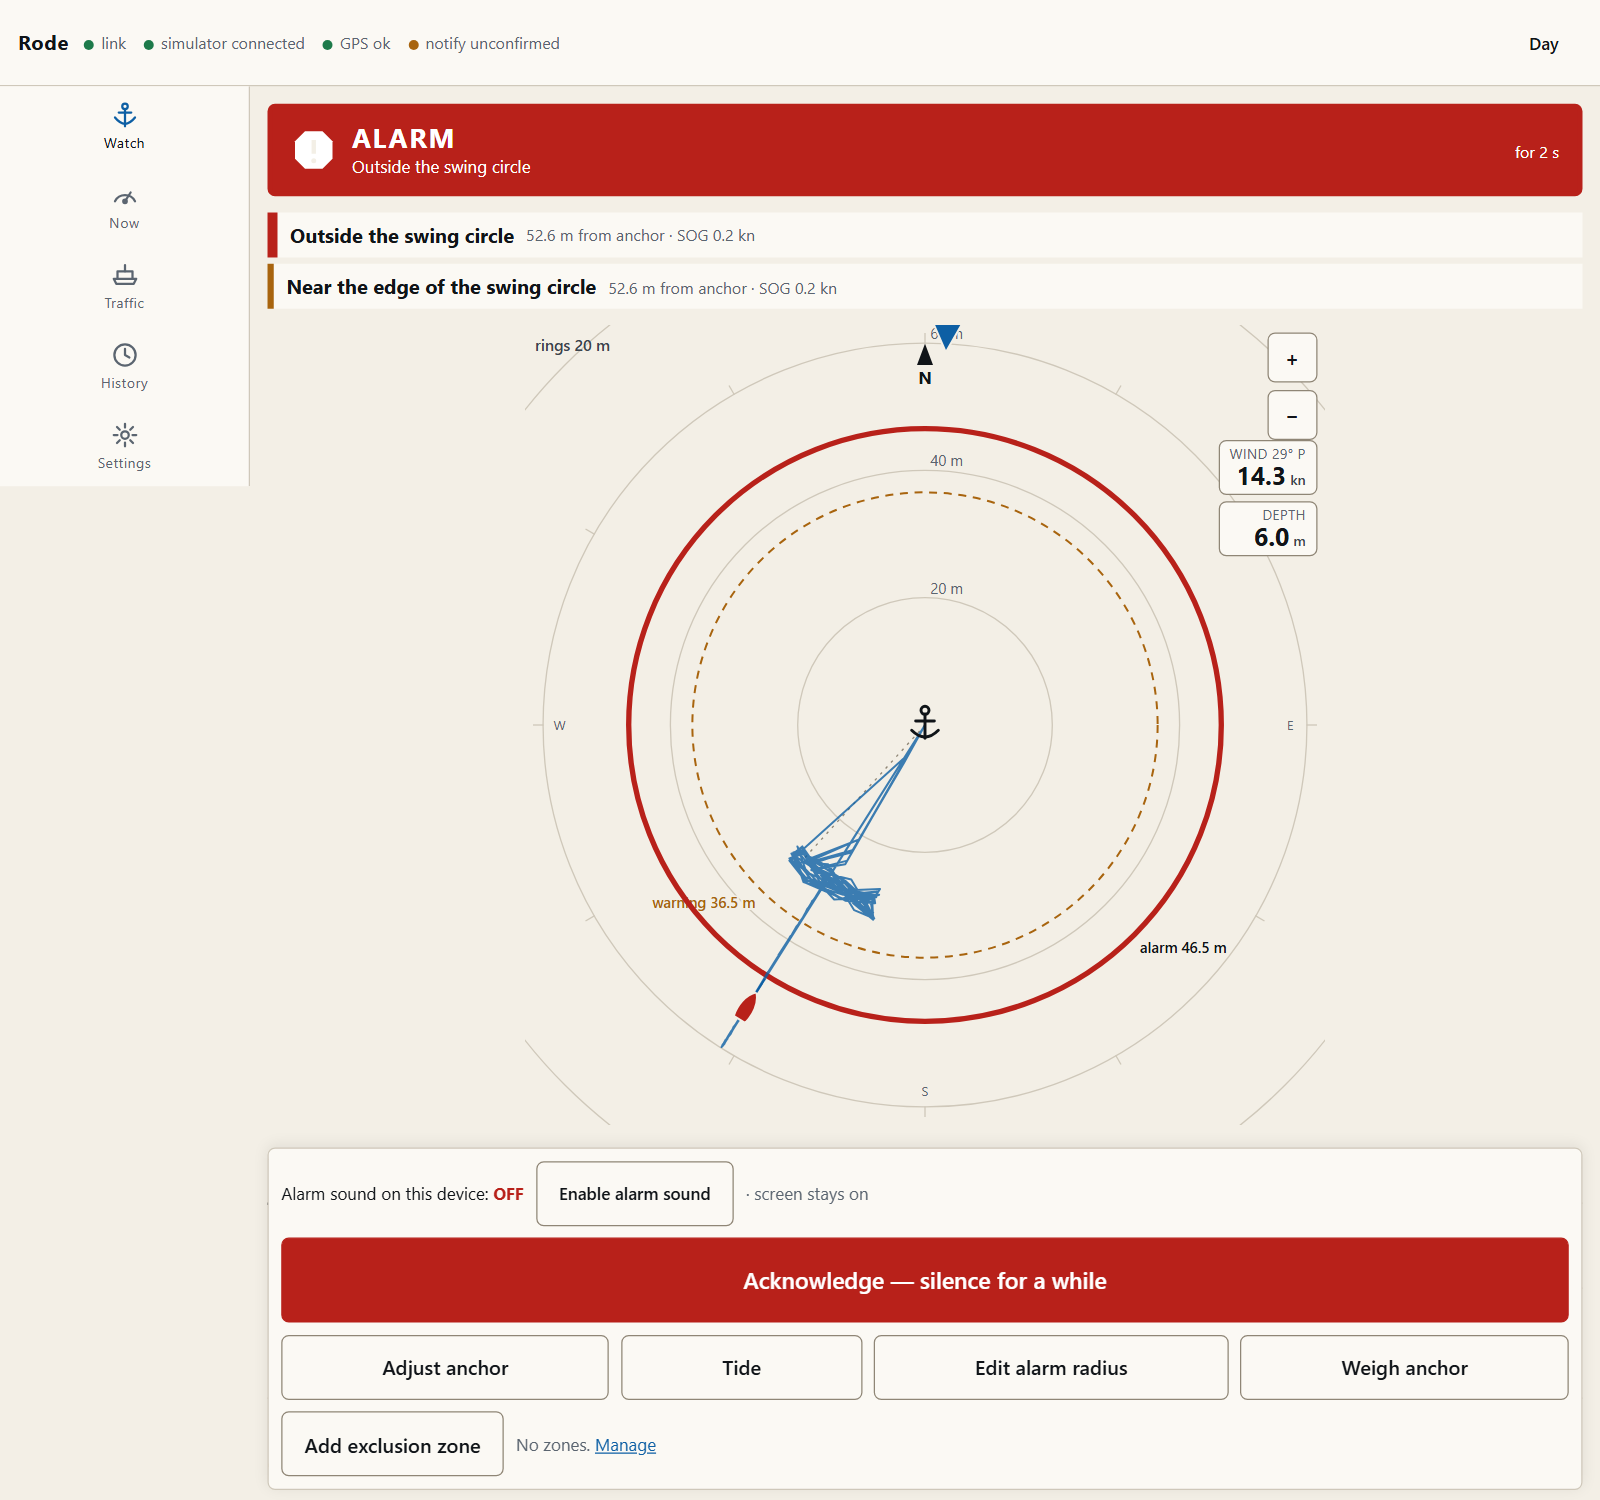
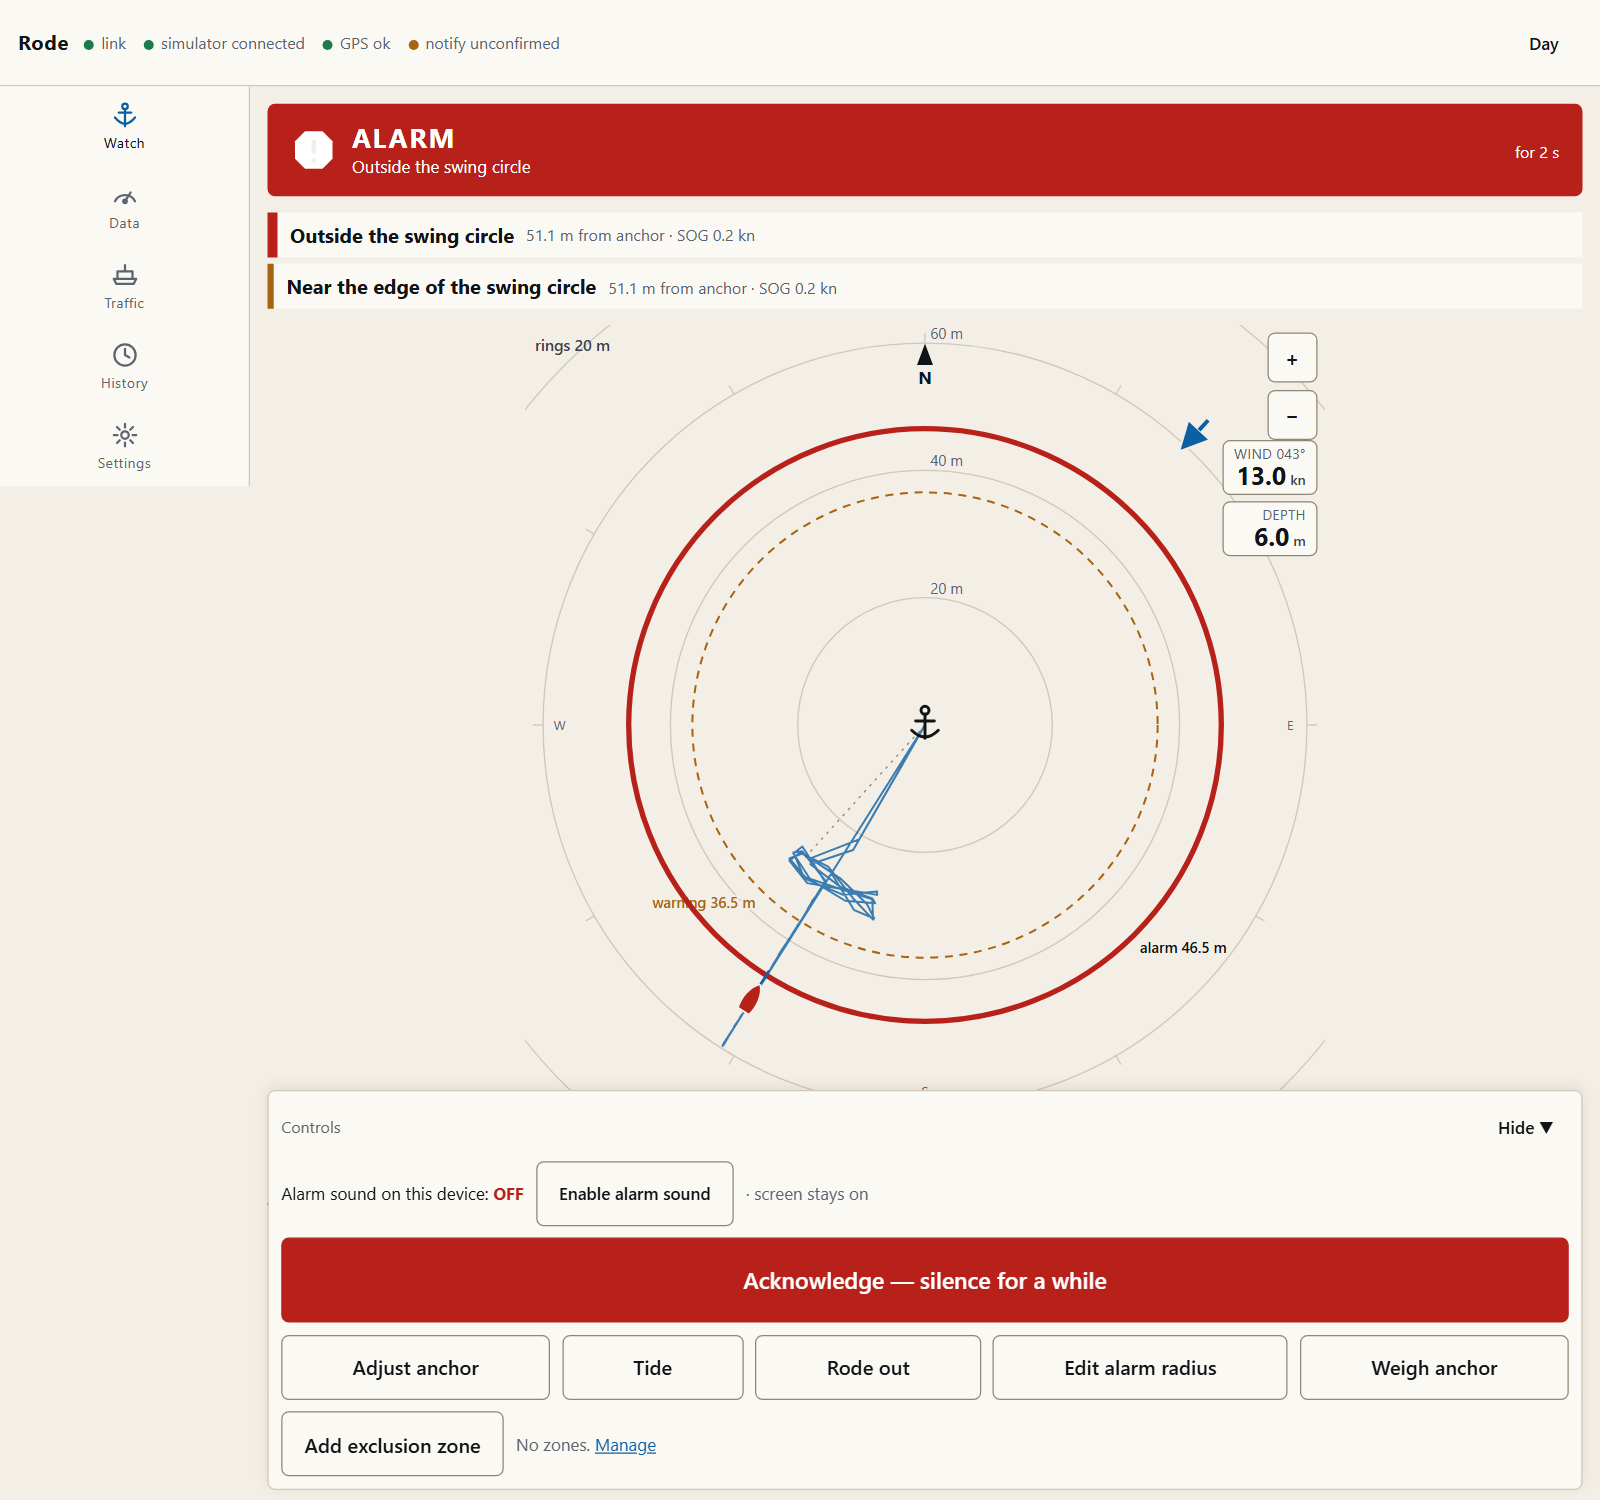
docs: v0.3 changelog, decisions 12.x, README and screenshots

diff --git a/README.md b/README.md
@@ -23,7 +23,7 @@ failures.
 </p>
 
 <p align="center">
-  <img src="docs/screenshots/traffic-laptop.png" width="800" alt="Traffic screen: AIS targets over Esri satellite imagery of the anchorage, fitted to show every vessel, with range, CPA and TCPA in a table">
+  <img src="docs/screenshots/traffic-laptop.png" width="800" alt="Traffic screen: AIS targets in red over Esri satellite imagery of the anchorage, one vessel's hour of track in orange, with range, CPA, TCPA and a Track button per vessel in the table">
 </p>
 
 <sub>Screenshots are from the built-in simulator (a Bermuda anchorage), not a real boat. The imagery is real.</sub>
@@ -33,15 +33,16 @@ failures.
 - **Anchor watch.** Drop → back down → Set. The swing circle is computed
   from where the anchor went down and where the boat lay after backing
   down, corrected for the GPS antenna's offset from the bow roller, with the
-  depth captured once at drop so the sounder can go off overnight. Three
-  independent early-warning detectors (position near the edge, wind off the
-  bow, sustained speed) with field-tested thresholds and hysteresis, a
-  break-out rule that escalates straight to critical, and first-class
-  alarms for GPS staleness and data-source loss.
-- **Marina mode.** One tap when you leave the boat in a slip: tight radius,
-  wind detector off, and it watches battery, solar yield and refrigeration
-  instead, reporting every fridge/freezer band change including the one
-  into "off", so a failed freezer that drifts to ambient cannot hide.
+  depth captured once at drop so the sounder can go off overnight, or from
+  the rode you say you paid out. Early warnings for position near the edge
+  and sustained speed, with field-tested thresholds and hysteresis, and
+  first-class alarms for GPS staleness and data-source loss.
+- **Traffic.** AIS targets over satellite imagery, ranges in metres or
+  nautical miles, CPA/TCPA, an hour of track per vessel on request, and a
+  card for any target you tap. Silent for 30 minutes means gone.
+- **Data.** Every instrument the boat reports, true wind and apparent wind
+  direction computed when the instruments do not send them, and rolling
+  24-hour charts of wind, barometer, SOG and STW.
 - **Exclusion zones.** Reefs, cables, fairways; checked independently of
   the circle, with projected-entry warnings from course and speed.
 - **Notifications that prove themselves.** ntfy, Pushover, Telegram,
@@ -136,7 +137,8 @@ Also worth setting: the sounder's transducer depth below the waterline
    _this_ phone.
 5. If the anchor point looks off on the view, **Adjust anchor** lets you drag
    it; everything recomputes. Enter the expected **tide** range if it is
-   large.
+   large. If you know how much chain went out, **Rode out** enters it and the
+   circle is worked from that instead of from where the boat lay at set.
 6. Every anchor set sends a notification: "Anchor watch active — radius 72
    m, rode 41 m, scope 5.7:1". If it does not arrive, fix that before you
    sleep. That is the point of it.
@@ -156,11 +158,16 @@ boat geometry in Settings re-derives the circle of the session that is
 running; you do not have to weigh and drop again.
 
 **Add exclusion zone** opens the zone editor right there; drawing works on
-top of the imagery, so a reef you can see is a reef you can fence.
+top of the imagery, so a reef you can see is a reef you can fence. Zones
+belong to the anchorage: weighing anchor removes them.
 
-The track slider, AIS toggle, background choice and the Traffic screen's
-fit-all switch are stored on the boat, so a phone and a laptop always show
-the same thing.
+**Hide** collapses the control panel to a slim bar on a phone; the
+Acknowledge button stays visible whenever something is alarming.
+
+The track slider, AIS toggle, background choices, zoom and the Traffic
+screen's fit-all switch are stored on the boat, so a phone and a laptop
+always show the same thing. Watch and Traffic keep their own background and
+zoom.
 
 The banner shows one of: NOT WATCHING · ANCHOR DOWN · WATCHING · WARNING ·
 ALARM. Acknowledging an alarm silences audio for the snooze period; it never
@@ -255,7 +262,7 @@ make sim SCENARIO=slow-drag SPEED=60   # fake Cortex on tcp :39150
 ```
 
 `RODE_SOURCE=simulator RODE_SIM_SCENARIO=break-out RODE_SIM_AUTO_COMMANDS=1`
-runs the server against a scenario with the skipper's taps scripted. The ten
+runs the server against a scenario with the skipper's taps scripted. The nine
 scenarios (`pnpm --filter @rode/ingest sim list`) are also the integration
 tests: each replays through the real parser, normaliser and alarm engine and
 asserts on the event log.

diff --git a/docs/decisions.md b/docs/decisions.md
@@ -453,3 +453,70 @@ resolves sticky against the grid container, so on any page taller than the
 viewport the `bottom: 0` constraint dragged the rail up over the header;
 short pages were unaffected, which is why only Watch and Traffic showed it.
 The rule now resets the offsets and `align-self: start`.
+
+# 12 — Second feedback round (2026-09-13)
+
+## 12.1 — Marina mode and the wind-angle detector are gone
+
+**Context.** The owner asked for both to be removed: marina monitoring was
+not going to be used, and the wind-off-the-bow warning (and the break-out
+rule built on it) fired on nothing but a shift of wind in practice.
+
+**Decision.** Deleted rather than hidden: `marina.ts`, the MARINA phase,
+the cold-box/battery/solar conditions, `awaWindow/awaHoldMs/awaMinWindSpeed`
+and the `wind-shift`/`breakout` conditions, the marina simulator scenario.
+`rehydrateWatchState` brings older persisted state forward: a MARINA
+session is ended, stale conditions are dropped, missing fields get
+defaults. History rows keep `mode: 'marina'` for old sessions. The
+break-out scenario stays as a fixture: it now asserts the speed warning
+precedes the position alarm. Wind data itself is still read, shown and
+charted; it just does not alarm.
+
+## 12.2 — Rode entered by the skipper drives the circle
+
+`AnchorSession.rodeOverride` (metres). `computeAnchorGeometry` takes an
+optional `rodeLength`; when present the horizontal run is
+`sqrt(rode² − vertical²)` instead of the measured distance at set, and
+`rodeEntered` is echoed so the UI can say which it is. Refused when shorter
+than depth plus roller height. Tide and settings recomputes keep the
+entered value; entering null goes back to measured.
+
+## 12.3 — Partial updates must not carry defaults
+
+**Context.** "Move the track slider, then change the background, and the
+slider goes back to 6 h." In zod 4, `.partial()` on an object whose fields
+have `.default()` still applies those defaults to missing keys, so every
+PATCH body arrived on the server with all the other settings reset.
+
+**Decision.** `patchOf(schema)` in `@rode/protocol` strips defaults and
+makes each field optional; every PATCH schema (prefs, units, source, boat,
+night mode, notifications) is built with it. A regression test sends two
+disjoint patches and checks nothing was lost.
+
+## 12.4 — Watch and Traffic views are independent, and zoom is explicit
+
+The extent of the polar view is a half-width in metres. `watchRange` and
+`trafficRange` (null = automatic) and `imagerySource`/`trafficImagery` are
+separate preferences. On Watch the extent only changes when the user
+zooms or the circle changes (then it refits). On Traffic "fit all targets"
+follows the targets while on; turning it off freezes the current extent,
+and a manual zoom turns it off. Range 10 m to 100 nm; rings label in
+nautical miles past 1000 ft / 1000 m.
+
+## 12.5 — AIS tracks live on the server, expiry clears them
+
+The tracker keeps an hour of positions per target (thinned to one every
+10 s), served by `GET /api/ais/:mmsi/track`; the Traffic screen fetches
+once per tracked vessel and follows live positions from then on. A target
+silent for 30 minutes is pruned with its history. Which vessels are
+tracked is a shared preference, so both phones draw the same tracks.
+
+## 12.6 — Derived wind in the normaliser, charts bucketed on the server
+
+Apparent wind direction (heading + AWA) and true wind (apparent minus boat
+motion, `trueWind()` in core with a round-trip property test) are computed
+in `Normalizer.instruments()` when the instruments do not send them, marked
+`source: 'derived'` and stale when any input is. The Data screen's 24-hour
+charts read `/api/series/buckets`, which averages five-minute buckets in
+JavaScript so wind direction can be a circular mean; STW (VHW) and pressure
+ride in the samples' `extra` JSON column, so no migration.

diff --git a/CHANGELOG.md b/CHANGELOG.md
@@ -9,8 +9,36 @@ _Unreleased_.
 
 ## [Unreleased]
 
+### Removed
+
+- **Marina mode** (the MARINA phase, refrigeration/battery/solar monitors,
+  marina thresholds, the marina simulator scenario) and the **wind-angle
+  warning** with its break-out rule. Wind is still shown and charted, it no
+  longer alarms. Persisted state from earlier versions is brought forward on
+  boot: a marina session is ended, stale conditions dropped.
+- The Wind readout under the Watch graphic, the radius labels on the Traffic
+  graphic, and the "here" button in the zone editor.
+
 ### Added
 
+- **Rode out.** Enter the rode actually paid out; the circle is derived from
+  it (`run = sqrt(rode² − vertical²)`) instead of the measured run at set.
+  (`POST /api/anchor/rode`)
+- **Traffic:** targets drawn red; a **Track** button per vessel draws its
+  last hour in orange (server-side history, `GET /api/ais/:mmsi/track`);
+  hover or tap a target for a card with range, bearing, SOG/COG, CPA/TCPA
+  and last seen; ring labels in nautical miles past 1000 ft / 1000 m; zoom
+  from 10 m to 100 nm; targets silent for 30 minutes are dropped with their
+  track.
+- **Data screen** (renamed from Now): STW next to SOG, apparent wind
+  direction, true wind direction and speed computed when the instruments do
+  not send them, and rolling 24-hour charts of apparent wind speed and
+  direction, barometer, SOG and STW (`GET /api/series/buckets`).
+- Watch: **Hide** collapses the control panel to a slim bar (the Acknowledge
+  button stays); the weigh-anchor confirmation says how many zones it will
+  remove; a **Delete** button per zone on the zones settings page.
+- Units and display: the time zone is a searchable list of every IANA zone.
+- VHW (speed through water) parsing; the simulator emits it.
 - **Manual alarm radius.** "Edit alarm radius" on the Watch screen: drag
   either ring on the view or type both numbers. Unchecked, the warning ring
   follows the alarm ring at the configured warn distance and either field
@@ -50,6 +78,13 @@ _Unreleased_.
 
 ### Changed
 
+- Watch and Traffic are independent: each keeps its own background imagery
+  and zoom, stored as shared preferences. The Watch extent changes only when
+  you zoom or the circle changes; Traffic's "fit all targets" follows the
+  targets while on and freezes the extent when turned off.
+- Imagery fills the whole graphic, not just the compass rose.
+- The wind box on the graphic shows apparent wind **direction** and speed.
+- Weighing anchor removes every exclusion zone.
 - README screenshots (phone, night mode, ALARM, Traffic over imagery,
   Imagery settings) captured from the simulator by `pnpm screenshots`.
 - **Settings changes apply to the running session.** Editing alarm
@@ -64,6 +99,12 @@ _Unreleased_.
 
 ### Fixed
 
+- Changing one setting reset the others (track slider back to 6 h after
+  picking a background, units resetting each other): zod 4's `.partial()`
+  kept field defaults, so every PATCH carried them. All patch schemas now
+  strip defaults (`patchOf`).
+- The zone editor could not scroll once it had more than a few points, so
+  Save was unreachable and points could not be deleted on a phone.
 - On laptops the left navigation rail overlapped the top status bar on the
   Watch and Traffic screens (a leftover `bottom: 0` from the phone layout
   on the sticky rail; only pages taller than the viewport were affected).
